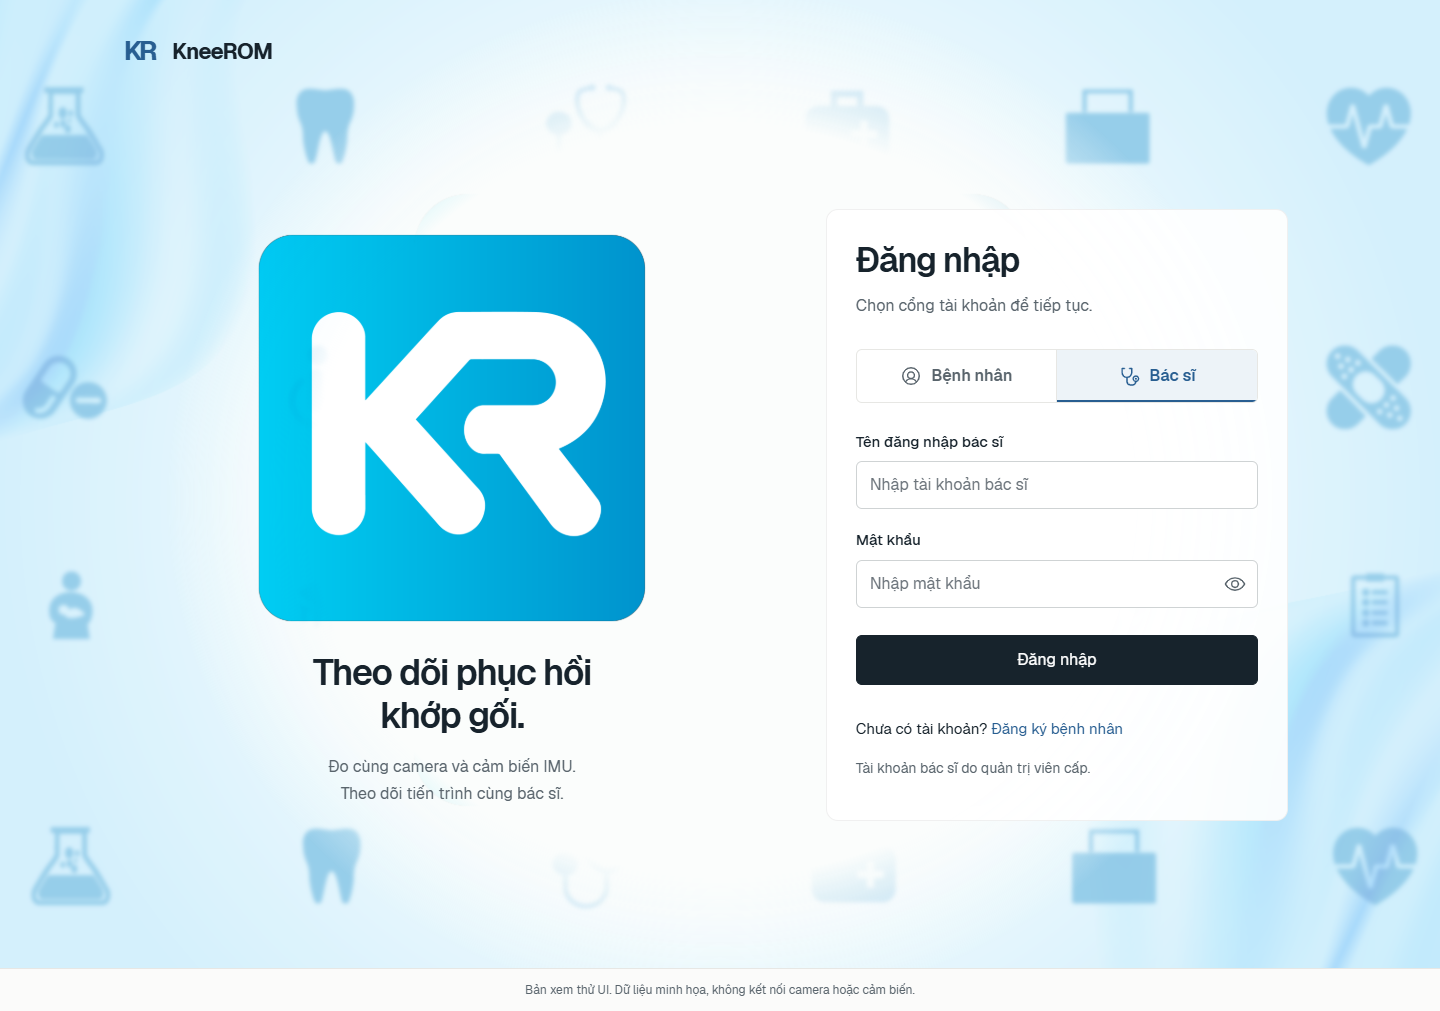
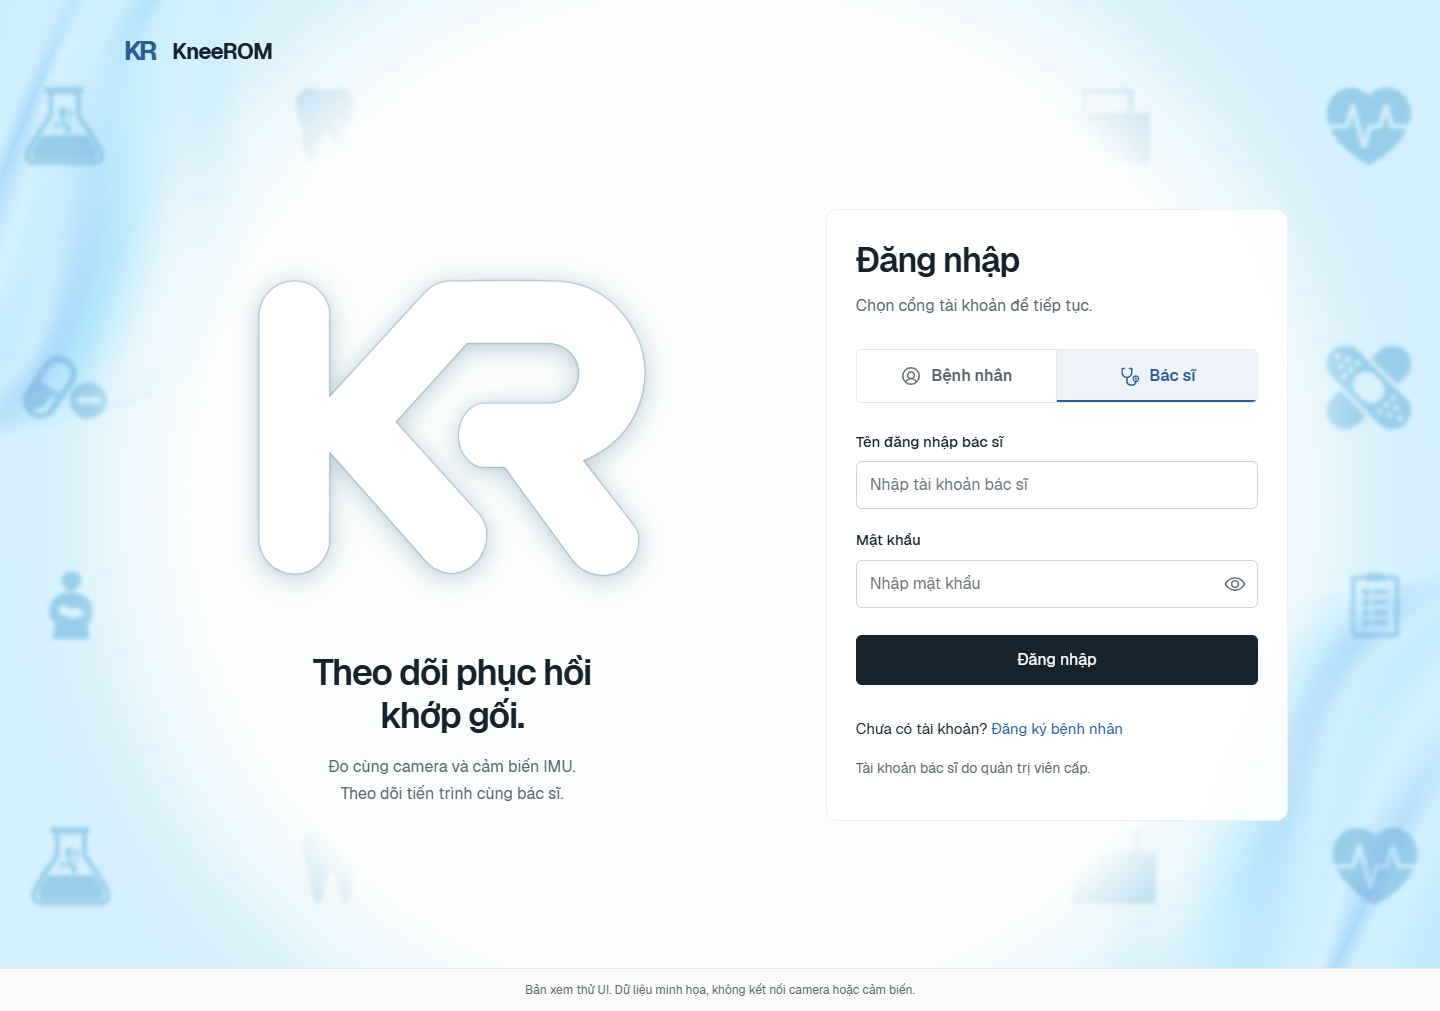
Show white doctor KR monogram without the blue badge

diff --git a/aclproject2-main/aclproject2-main/home.html b/aclproject2-main/aclproject2-main/home.html
@@ -19,7 +19,7 @@
     />
     <link
       rel="stylesheet"
-      href="{{ url_for('static', filename='portal-ui.css', v='login-wallpaper-visible-4') }}"
+      href="{{ url_for('static', filename='portal-ui.css', v='doctor-white-mark-5') }}"
     />
     <script src="{{ url_for('static', filename='rehab.js') }}" defer></script>
     <script
@@ -41,7 +41,7 @@
       <section class="auth-intro auth-intro-branded" aria-label="Giới thiệu KneeROM">
         <div class="auth-brand-art">
           <img class="auth-brand-patient" src="{{ url_for('static', filename='brand/patient-logo.png') }}" alt="Logo KneeROM dành cho bệnh nhân" width="2268" height="2268" fetchpriority="high" />
-          <img class="auth-brand-doctor" src="{{ url_for('static', filename='brand/doctor-logo.png') }}" alt="Logo KneeROM dành cho bác sĩ" width="2269" height="2268" />
+          <img class="auth-brand-doctor" src="{{ url_for('static', filename='brand/doctor-white.svg') }}" alt="Logo KneeROM dành cho bác sĩ" width="1311" height="1020" />
         </div>
         <h2>Theo dõi phục hồi<br />khớp gối.</h2>
         <p>

diff --git a/aclproject2-main/aclproject2-main/static/portal-ui.css b/aclproject2-main/aclproject2-main/static/portal-ui.css
@@ -2498,3 +2498,40 @@ body.patient-portal-page {
     #000 100%
   );
 }
+
+/* White doctor monogram without a badge; a restrained edge preserves contrast. */
+.auth-brand-doctor {
+  width: 100%;
+  filter: drop-shadow(0 0 1px rgba(18, 84, 119, 0.8))
+    drop-shadow(0 4px 12px rgba(18, 84, 119, 0.28));
+}
+.page-auth[data-portal="doctor"] .auth-brand-art {
+  mix-blend-mode: normal;
+  overflow: visible;
+}
+.auth-wallpaper-doctor {
+  -webkit-mask-image: radial-gradient(
+    ellipse 45% 62% at 50% 50%,
+    transparent 80%,
+    #000 100%
+  ) !important;
+  mask-image: radial-gradient(
+    ellipse 45% 62% at 50% 50%,
+    transparent 80%,
+    #000 100%
+  ) !important;
+}
+@media (max-width: 760px) {
+  .auth-wallpaper-doctor {
+    -webkit-mask-image: radial-gradient(
+      ellipse 80% 60% at 50% 50%,
+      transparent 85%,
+      #000 100%
+    ) !important;
+    mask-image: radial-gradient(
+      ellipse 80% 60% at 50% 50%,
+      transparent 85%,
+      #000 100%
+    ) !important;
+  }
+}

diff --git a/docs/ui-preview.md b/docs/ui-preview.md
@@ -14,7 +14,7 @@ Mở http://127.0.0.1:5003. Tài khoản minh họa: `patient_demo` hoặc `doct
 
 ## Những thay đổi để xem xét
 
-- Trang đăng nhập dùng logo gốc do chủ dự án cung cấp: xanh lá cho bệnh nhân, xanh lam cho bác sĩ. Logo lớn bên trái trên PC và thu nhỏ phía trên form trên điện thoại; hai cổng đăng nhập vẫn riêng biệt.
+- Trang đăng nhập dùng logo do chủ dự án cung cấp: xanh lá cho bệnh nhân, KR trắng không có khung xanh cho bác sĩ. Logo lớn bên trái trên PC và thu nhỏ phía trên form trên điện thoại; hai cổng đăng nhập vẫn riêng biệt.
 - Background y tế gốc phủ toàn trang, được làm mờ và giảm độ đậm riêng với nội dung. Biểu tượng nền chuyển màu nhẹ theo tab; vùng giữa được làm dịu để tránh lặp logo. Form và logo phía trước vẫn rõ nét. Hiệu ứng tắt theo tùy chọn giảm chuyển động/giảm trong suốt của thiết bị.
 - Bệnh nhân dùng màu xanh ngọc, bác sĩ dùng xanh lam. Font Geist và biểu tượng Phosphor được phục vụ từ repo, kèm giấy phép trong `static/fonts` và `static/icons`.
 - Giao diện điều chỉnh cho điện thoại, laptop và PC. Trên điện thoại, điều hướng và nút đo được đặt trong tầm thao tác.

diff --git a/aclproject2-main/aclproject2-main/static/brand/README.md b/aclproject2-main/aclproject2-main/static/brand/README.md
@@ -4,4 +4,6 @@ patient-logo.png and doctor-logo.png are the original PNG files supplied by the 
 
 Source folder: https://drive.google.com/drive/folders/1u_goGpfkvJhi9kdhSiqiQoZozg86S2tI
 
+doctor-white.svg renders the exact white monogram from doctor-logo.png using an embedded copy of that PNG, a native SVG color/alpha filter and a tightly scoped viewBox. This removes the cyan badge while preserving the supplied geometry. The original PNG remains unchanged. A CSS shadow provides contrast on the light login background.
+
 patient-background.png and doctor-background.png are also the original supplied PNGs from that folder. CSS applies blur, desaturation, opacity and a central mask to the decorative background layer only. No raster files have been edited. The login form remains sharp; switching role crossfades the two backgrounds, respecting reduced-motion and reduced-transparency preferences.
